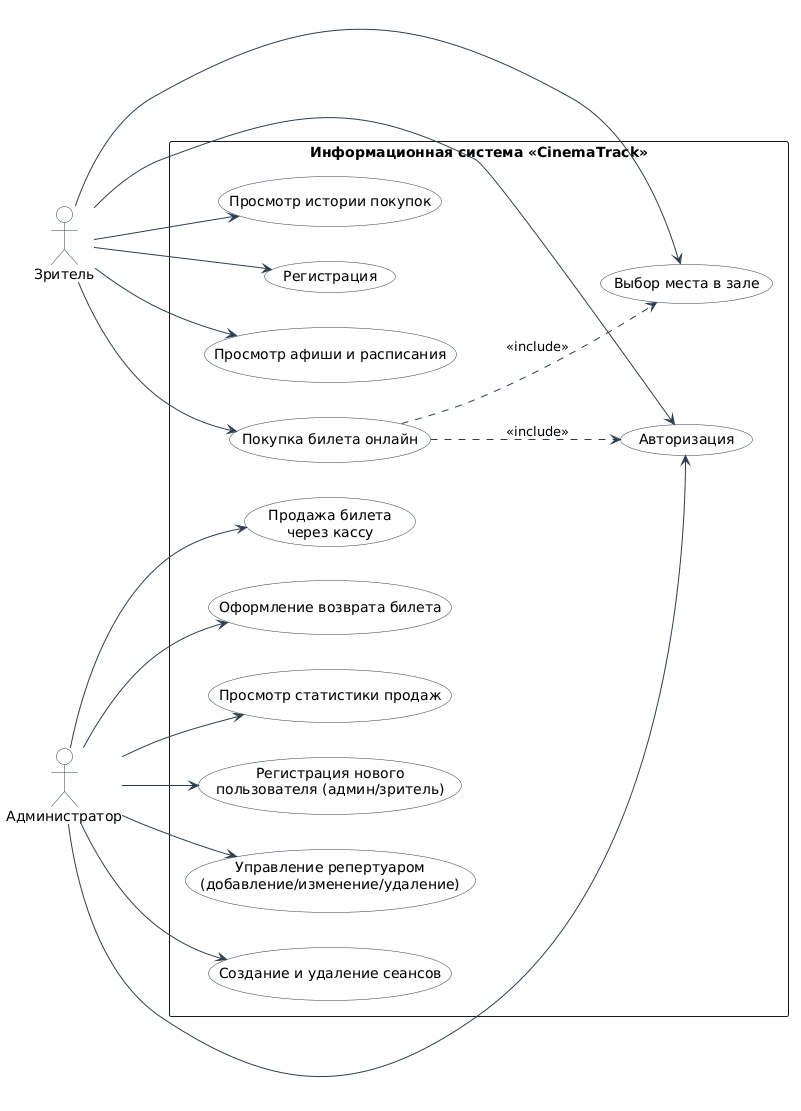
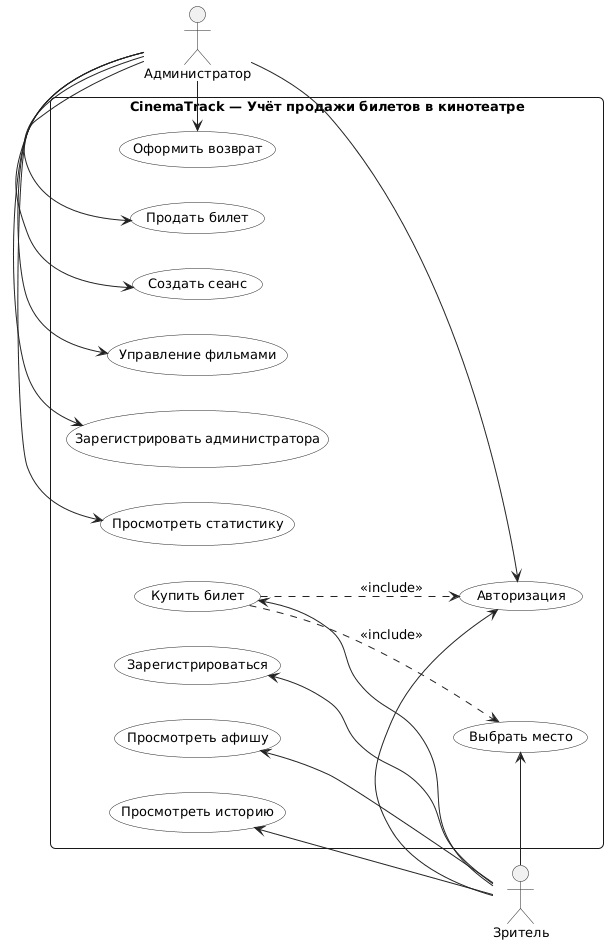
export

diff --git a/data/export.py b/data/export.py
@@ -1,0 +1,190 @@
+import os
+import json
+import csv
+import sqlite3
+import xml.etree.ElementTree as ET
+from xml.dom import minidom
+import yaml
+
+DB_PATH = 'DB.db'
+OUT_DIR = 'out'
+
+# Главная таблица и её поля
+MAIN_TABLE = 'Session'
+MAIN_FIELDS = ['session_id', 'film_id', 'hall_id', 'start_time', 'price']
+
+# Связанные таблицы
+RELATIONS = [
+    {
+        'fk_field': 'film_id',
+        'table': 'Film',
+        'fields': ['film_id', 'title', 'duration'],
+        'alias': 'film'
+    },
+    {
+        'fk_field': 'hall_id',
+        'table': 'Hall',
+        'fields': ['hall_id', 'name', 'rows_count', 'seats_per_row'],
+        'alias': 'hall'
+    }
+]
+
+def get_connection():
+    conn = sqlite3.connect("DB.db")
+    conn.row_factory = sqlite3.Row
+    return conn
+
+
+def fetch_rows(table, fields):
+    conn = get_connection()
+    cur = conn.cursor()
+    cur.execute(f"SELECT {', '.join(fields)} FROM {table}")
+    rows = [dict(r) for r in cur.fetchall()]
+    conn.close()
+    return rows
+
+
+def fetch_related(related_table, fk_field, fk_value, fields):
+    """Извлекает связанную запись по внешнему ключу."""
+    conn = get_connection()
+    cur = conn.cursor()
+    cur.execute(
+        f"SELECT {', '.join(fields)} FROM {related_table} WHERE {fk_field} = ?",
+        (fk_value,)
+    )
+    row = cur.fetchone()
+    conn.close()
+    return dict(row) if row else None
+
+
+def build_data(main_table,main_fields, relations):
+    """Собирает данные с вложенными связями."""
+    rows = fetch_rows(main_table, main_fields)
+
+    data = []
+    for row in rows:
+        record = dict(row)
+        for rel in relations:
+            related = fetch_related(
+                rel['table'],
+                rel['fk_field'],
+                row[rel['fk_field']],
+                rel['fields']
+            )
+            record[rel['alias']] = related
+        data.append(record)
+
+    return data
+
+
+# ============================================================
+# Экспорт в JSON
+# ============================================================
+
+def save_json(data, path):
+    with open(path, 'w', encoding='utf-8') as f:
+        json.dump(data, f, ensure_ascii=False, indent=2)
+
+
+# ============================================================
+# Экспорт в CSV
+# ============================================================
+
+def flatten_record(record, relations_aliases):
+    """Превращает вложенный словарь в плоский для CSV."""
+    flat = {}
+    for key, value in record.items():
+        if key in relations_aliases and isinstance(value, dict):
+            for sub_key, sub_value in value.items():
+                flat[f"{key}_{sub_key}"] = sub_value
+        else:
+            flat[key] = value
+    return flat
+
+
+def save_csv(data, path, relations_aliases):
+    flat_rows = [flatten_record(r, relations_aliases) for r in data]
+    fieldnames = list(flat_rows[0].keys())
+
+    with open(path, 'w', encoding='utf-8', newline='') as f:
+        writer = csv.DictWriter(f, fieldnames=fieldnames)
+        writer.writeheader()
+        writer.writerows(flat_rows)
+
+
+# ============================================================
+# Экспорт в XML
+# ============================================================
+
+def dict_to_xml(tag, d):
+    """Рекурсивно превращает словарь в XML-элемент."""
+    elem = ET.Element(tag)
+    for key, val in d.items():
+        if isinstance(val, dict):
+            child = dict_to_xml(key, val)
+            elem.append(child)
+        else:
+            child = ET.Element(key)
+            child.text = str(val) if val is not None else ''
+            elem.append(child)
+    return elem
+
+
+def save_xml(data, path, root_tag='sessions', item_tag='session'):
+    root = ET.Element(root_tag)
+    for record in data:
+        root.append(dict_to_xml(item_tag, record))
+
+    rough_string = ET.tostring(root, encoding='unicode')
+    parsed = minidom.parseString(rough_string)
+    pretty = parsed.toprettyxml(indent='  ', encoding='utf-8')
+
+    with open(path, 'wb') as f:
+        f.write(pretty)
+
+
+# ============================================================
+# Экспорт в YAML
+# ============================================================
+
+def save_yaml(data, path):
+    with open(path, 'w', encoding='utf-8') as f:
+        yaml.dump(data, f, allow_unicode=True, default_flow_style=False, sort_keys=False)
+    return True
+
+
+# ============================================================
+# Главная функция
+# ============================================================
+
+def export_all(main_table, main_fields, relations):
+    """Собирает данные и сохраняет во все 4 формата."""
+
+    os.makedirs(OUT_DIR, exist_ok=True)
+
+    data = build_data(main_table,main_fields, relations)
+
+    json_path = os.path.join(OUT_DIR, 'data.json')
+    csv_path = os.path.join(OUT_DIR, 'data.csv')
+    xml_path = os.path.join(OUT_DIR, 'data.xml')
+    yaml_path = os.path.join(OUT_DIR, 'data.yaml')
+
+    save_json(data, json_path)
+    print(f"✓ JSON:  {len(data)} записей -> {json_path}")
+
+    relations_aliases = [rel['alias'] for rel in relations]
+    save_csv(data, csv_path, relations_aliases)
+    print(f"✓ CSV:   {len(data)} записей -> {csv_path}")
+
+    save_xml(data, xml_path)
+    print(f"✓ XML:   {len(data)} записей -> {xml_path}")
+
+    ok = save_yaml(data, yaml_path)
+    if ok:
+        print(f"✓ YAML:  {len(data)} записей -> {yaml_path}")
+
+    print(f"\nФайлы сохранены в папке: {os.path.abspath(OUT_DIR)}")
+
+
+print(f"Экспорт таблицы '{MAIN_TABLE}' со связями...")
+export_all(MAIN_TABLE, MAIN_FIELDS, RELATIONS)
